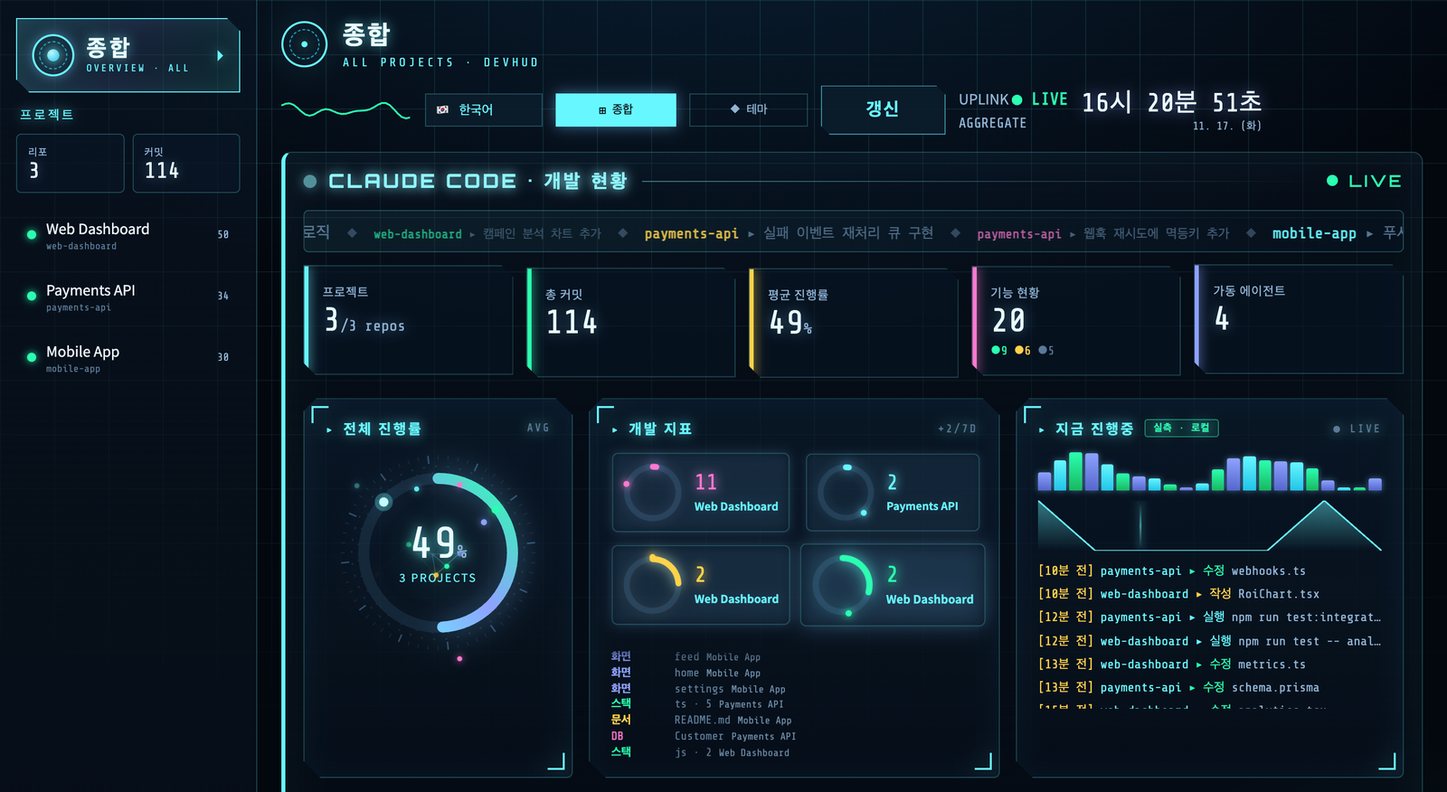
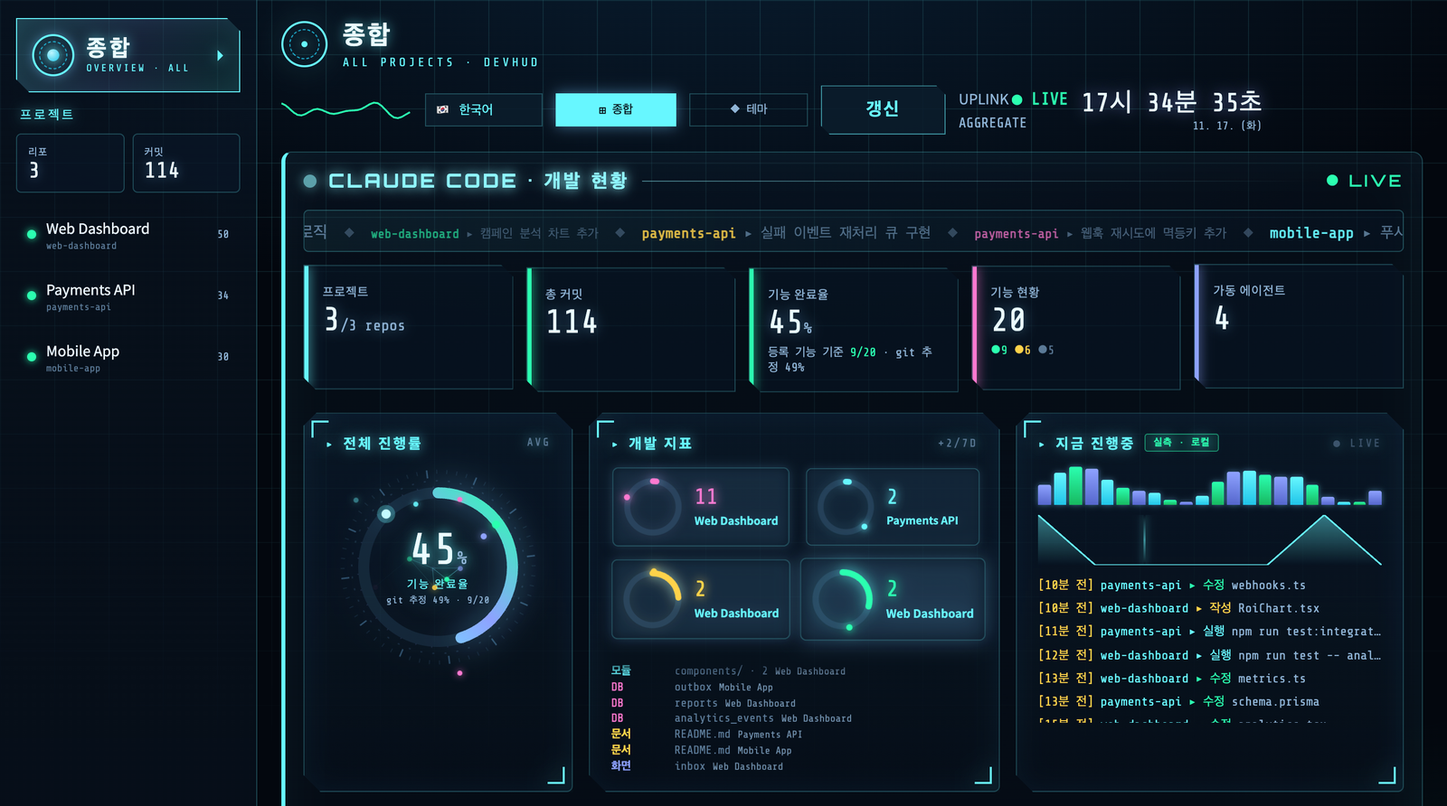
fix: 과장 라벨 정정 — '실제 완료율' → '기능(등록) 완료율' + 정밀 표기
정확성 피드백 반영 (하나도 과장 않도록):
- '실제 완료율/REAL COMPLETION' → '기능 완료율/FEATURE COMPLETION' (등록 기능 done/total이며 코드·테스트 자동검증이 아님을 명시, '등록 기능 기준' 부기)
- 작업 상태: '작업중' → '활성 ~3분' (최근 로그 시간 기준 추정 · 실행/입력대기 구별 못 함)
- 파일 편집 스트림: '세션 로그' 기준 편집량임을 라벨에 표기(git diff와 다를 수 있음), 보고서 변경파일은 'git' 명시
- FEATURES.md 동일하게 정정, 데모 GIF·대표 이미지 정정 라벨로 재생성

diff --git a/web/index.html b/web/index.html
@@ -526,7 +526,7 @@ body::before{content:"";position:fixed;inset:0;z-index:0;pointer-events:none;bac
 const THEMES={cyan:['#67f7ff','#20c4e8','#8ea2ff'],amber:['#ffcf5a','#e0952a','#ffd98a'],matrix:['#53ff9b','#17b85f','#9affc6'],magenta:['#ff79d0','#d13a92','#ffabe0']};
 const TORDER=['cyan','amber','matrix','magenta'];let curTheme='cyan';
 const PAL=['#53ff9b','#67f7ff','#ffd24a','#ff79d0','#8ea2ff','#ff6d86','#20c4e8','#ffcf5a'];
-const T={en:{projects:'Projects',repos:'Repos',commits:'Commits',theme:'Theme',refresh:'Refresh',t_milestones:'Milestones',t_phases:'Phases',t_features:'Feature Status',t_commits:'Recent Commits',t_log:'Event Log',t_radar:'Commit Radar',t_activity:'Commit Activity · 14d',t_work:'Work Distribution',t_branches:'Branches',t_recs:'Recommended',t_inprog:'In Progress',t_agents:'AI Agents',t_code:'Code Composition',t_modules:'Module Structure',t_contrib:'Contributors',t_stack:'Tech Stack',t_screens:'UI · Screens',t_docs:'Planning · Docs',overview:'Overview',ov_managed:'Managed Projects',ov_other:'Other Repos',ov_projects:'Projects',ov_commits:'Total Commits',ov_progress:'Avg Progress',ov_feat:'Features',ov_agents:'Active Agents',ms_short:'milestones',wip_short:'in progress',last_short:'last',done_k:'Done',wip_k:'Active',todo_k:'Todo',ov_board:'My Projects',ov_managed2:'Git projects (auto)',newproj:'New project',m_name:'Name',m_desc:'One-line description',m_status:'Status',m_progress:'Progress %',m_updated:'Last activity',m_cancel:'Cancel',m_save:'Save',bp_empty:'No projects yet',st_idea:'Idea',st_active:'Active',st_done:'Done',st_hold:'Hold',ov_cc:'CLAUDE CODE · DEV STATUS',bp_recent:'7d',bp_act:'avg activity',bp_prog:'progress',bp_actlbl:'activity',cp_prog:'Overall progress',cp_metrics:'Dev metrics',cp_now:'In progress now',m_db:'DB tables',m_c7:'7-day commits',m_wip:'In progress',m_ag:'AI agents',bp_now:'Now',bp_detail:'add detail',m_task:'Current task',m_eta:'Expected completion',m_convos:'Conversations',m_docs:'Attached docs',cu_title:'Claude Code · Real token usage',cu_real:'REAL · LOCAL',cu_out:'Output tokens',cu_in:'Input',cu_cache:'Cache',cu_sess:'Sessions',cu_sessw:'sessions',bp_manual:'self-tracked',au_title:'Anthropic API · Tokens · Cost',au_real:'REAL · API',au_off:'NOT SET',au_setup:'Connect your Anthropic usage',au_s1:'Create an Admin API key in the Anthropic Console',au_s2:'Add it to',au_s3:'Refresh — real tokens & cost appear',au_safe:'Key stays local (git-ignored), never committed or shown.',au_cost:'Cost (7d)',au_7d:'Last 7 days',bp_all:'All',so_status:'By status',so_act:'By activity',so_date:'By date',so_name:'By name',bp_noactive:'Nothing active',ago_now:'now',ago_m:'m ago',ago_h:'h ago',ago_d:'d ago',wk_title:'Working now · Claude Code sessions',wk_empty:'No local Claude Code sessions found',wk_hidden:'topics hidden',wk_acts:'actions',wk_prompts:'prompts',wk_files:'files',wk_changes:'File changes · live stream',v_edit:'edit',v_write:'write',v_read:'read',v_run:'run',v_browser:'browser',v_tool:'tool',dk_db:'DB',dk_dir:'MODULE',dk_screen:'SCREEN',dk_doc:'DOC',dk_lang:'STACK',dk_file:'FILE',cp_realc:'REAL COMPLETION',cp_gitest:'git est.',ov_realc:'Real completion',rp_title:'Dev report · next actions',rp_today:'commits today',rp_week:'7d commits',rp_todo:'open TODOs',rp_next:'Next actions',rp_changed:'Changed files (7d)',rp_done:'Done',rp_wip:'In progress',rp_todo2:'Planned',ss_active:'working',ss_recent:'recent',ss_idle:'idle',rp_none:'No next actions detected'},ko:{projects:'프로젝트',repos:'리포',commits:'커밋',theme:'테마',refresh:'갱신',t_milestones:'마일스톤',t_phases:'단계(Phase)',t_features:'기능별 상태',t_commits:'최근 커밋',t_log:'이벤트 로그',t_radar:'커밋 레이더',t_activity:'커밋 활동 · 14일',t_work:'작업 분포',t_branches:'브랜치',t_recs:'추천 액션',t_inprog:'진행 중',t_agents:'AI 에이전트',t_code:'코드 구성',t_modules:'모듈 구성',t_contrib:'기여자',t_stack:'기술 스택',t_screens:'UI · 화면',t_docs:'기획 · 문서',overview:'종합',ov_managed:'관리 중인 프로젝트',ov_other:'기타 리포',ov_projects:'프로젝트',ov_commits:'총 커밋',ov_progress:'평균 진행률',ov_feat:'기능 현황',ov_agents:'가동 에이전트',ms_short:'마일스톤',wip_short:'진행중',last_short:'최근',done_k:'완료',wip_k:'진행',todo_k:'대기',ov_board:'내 프로젝트',ov_managed2:'GIT 프로젝트 (자동 감지)',newproj:'새 프로젝트',m_name:'이름',m_desc:'한 줄 설명',m_status:'상태',m_progress:'진척도 %',m_updated:'최근 활동',m_cancel:'취소',m_save:'저장',bp_empty:'프로젝트가 없습니다',st_idea:'기획',st_active:'진행',st_done:'완료',st_hold:'보류',ov_cc:'CLAUDE CODE · 개발 현황',bp_recent:'최근7일',bp_act:'평균 활동',bp_prog:'진척',bp_actlbl:'활동',cp_prog:'전체 진행률',cp_metrics:'개발 지표',cp_now:'지금 진행중',m_db:'DB 테이블',m_c7:'7일 커밋',m_wip:'진행중 기능',m_ag:'AI 에이전트',bp_now:'현재',bp_detail:'상세 추가',m_task:'현재 작업',m_eta:'예상 완료',m_convos:'대화 수',m_docs:'첨부 문서',cu_title:'Claude Code · 실측 토큰 사용량',cu_real:'실측 · 로컬',cu_out:'출력 토큰',cu_in:'입력',cu_cache:'캐시',cu_sess:'세션',cu_sessw:'세션',bp_manual:'직접 기록',au_title:'Anthropic API · 토큰 · 비용',au_real:'실측 · API',au_off:'미설정',au_setup:'Anthropic 사용량 연결',au_s1:'Anthropic 콘솔에서 Admin API 키 생성',au_s2:'키를 넣기:',au_s3:'갱신하면 실제 토큰·비용 표시',au_safe:'키는 로컬(gitignore)에만 저장 · 커밋/노출 안 함',au_cost:'비용(7일)',au_7d:'최근 7일',bp_all:'전체',so_status:'상태순',so_act:'활동순',so_date:'날짜순',so_name:'이름순',bp_noactive:'진행 중인 항목 없음',ago_now:'방금',ago_m:'분 전',ago_h:'시간 전',ago_d:'일 전',wk_title:'지금 작업중 · Claude Code 세션',wk_empty:'로컬 Claude Code 세션이 없습니다',wk_hidden:'주제 숨김',wk_acts:'액션',wk_prompts:'프롬프트',wk_files:'파일',wk_changes:'파일 변경 · 실시간 스트림',v_edit:'수정',v_write:'작성',v_read:'읽기',v_run:'실행',v_browser:'브라우저',v_tool:'도구',dk_db:'DB',dk_dir:'모듈',dk_screen:'화면',dk_doc:'문서',dk_lang:'스택',dk_file:'파일',cp_realc:'실제 완료율',cp_gitest:'git 추정',ov_realc:'실제 완료율',rp_title:'개발 보고서 · 다음 할 일',rp_today:'오늘 커밋',rp_week:'7일 커밋',rp_todo:'열린 TODO',rp_next:'다음 할 일',rp_changed:'변경 파일(7일)',rp_done:'완료',rp_wip:'진행중',rp_todo2:'계획',ss_active:'작업중',ss_recent:'최근',ss_idle:'유휴',rp_none:'감지된 다음 할 일 없음'},
+const T={en:{projects:'Projects',repos:'Repos',commits:'Commits',theme:'Theme',refresh:'Refresh',t_milestones:'Milestones',t_phases:'Phases',t_features:'Feature Status',t_commits:'Recent Commits',t_log:'Event Log',t_radar:'Commit Radar',t_activity:'Commit Activity · 14d',t_work:'Work Distribution',t_branches:'Branches',t_recs:'Recommended',t_inprog:'In Progress',t_agents:'AI Agents',t_code:'Code Composition',t_modules:'Module Structure',t_contrib:'Contributors',t_stack:'Tech Stack',t_screens:'UI · Screens',t_docs:'Planning · Docs',overview:'Overview',ov_managed:'Managed Projects',ov_other:'Other Repos',ov_projects:'Projects',ov_commits:'Total Commits',ov_progress:'Avg Progress',ov_feat:'Features',ov_agents:'Active Agents',ms_short:'milestones',wip_short:'in progress',last_short:'last',done_k:'Done',wip_k:'Active',todo_k:'Todo',ov_board:'My Projects',ov_managed2:'Git projects (auto)',newproj:'New project',m_name:'Name',m_desc:'One-line description',m_status:'Status',m_progress:'Progress %',m_updated:'Last activity',m_cancel:'Cancel',m_save:'Save',bp_empty:'No projects yet',st_idea:'Idea',st_active:'Active',st_done:'Done',st_hold:'Hold',ov_cc:'CLAUDE CODE · DEV STATUS',bp_recent:'7d',bp_act:'avg activity',bp_prog:'progress',bp_actlbl:'activity',cp_prog:'Overall progress',cp_metrics:'Dev metrics',cp_now:'In progress now',m_db:'DB tables',m_c7:'7-day commits',m_wip:'In progress',m_ag:'AI agents',bp_now:'Now',bp_detail:'add detail',m_task:'Current task',m_eta:'Expected completion',m_convos:'Conversations',m_docs:'Attached docs',cu_title:'Claude Code · Real token usage',cu_real:'REAL · LOCAL',cu_out:'Output tokens',cu_in:'Input',cu_cache:'Cache',cu_sess:'Sessions',cu_sessw:'sessions',bp_manual:'self-tracked',au_title:'Anthropic API · Tokens · Cost',au_real:'REAL · API',au_off:'NOT SET',au_setup:'Connect your Anthropic usage',au_s1:'Create an Admin API key in the Anthropic Console',au_s2:'Add it to',au_s3:'Refresh — real tokens & cost appear',au_safe:'Key stays local (git-ignored), never committed or shown.',au_cost:'Cost (7d)',au_7d:'Last 7 days',bp_all:'All',so_status:'By status',so_act:'By activity',so_date:'By date',so_name:'By name',bp_noactive:'Nothing active',ago_now:'now',ago_m:'m ago',ago_h:'h ago',ago_d:'d ago',wk_title:'Working now · Claude Code sessions',wk_empty:'No local Claude Code sessions found',wk_hidden:'topics hidden',wk_acts:'actions',wk_prompts:'prompts',wk_files:'files',wk_changes:'File edits · live (session log)',v_edit:'edit',v_write:'write',v_read:'read',v_run:'run',v_browser:'browser',v_tool:'tool',dk_db:'DB',dk_dir:'MODULE',dk_screen:'SCREEN',dk_doc:'DOC',dk_lang:'STACK',dk_file:'FILE',cp_realc:'FEATURE COMPLETION',cp_gitest:'git est.',ov_realc:'Feature completion',ov_realc_sub:'registered features',rp_title:'Dev report · next actions',rp_today:'commits today',rp_week:'7d commits',rp_todo:'open TODOs',rp_next:'Next actions',rp_changed:'Changed files (git · 7d)',rp_done:'Done',rp_wip:'In progress',rp_todo2:'Planned',ss_active:'active ~3m',ss_recent:'recent',ss_idle:'idle',rp_none:'No next actions detected'},ko:{projects:'프로젝트',repos:'리포',commits:'커밋',theme:'테마',refresh:'갱신',t_milestones:'마일스톤',t_phases:'단계(Phase)',t_features:'기능별 상태',t_commits:'최근 커밋',t_log:'이벤트 로그',t_radar:'커밋 레이더',t_activity:'커밋 활동 · 14일',t_work:'작업 분포',t_branches:'브랜치',t_recs:'추천 액션',t_inprog:'진행 중',t_agents:'AI 에이전트',t_code:'코드 구성',t_modules:'모듈 구성',t_contrib:'기여자',t_stack:'기술 스택',t_screens:'UI · 화면',t_docs:'기획 · 문서',overview:'종합',ov_managed:'관리 중인 프로젝트',ov_other:'기타 리포',ov_projects:'프로젝트',ov_commits:'총 커밋',ov_progress:'평균 진행률',ov_feat:'기능 현황',ov_agents:'가동 에이전트',ms_short:'마일스톤',wip_short:'진행중',last_short:'최근',done_k:'완료',wip_k:'진행',todo_k:'대기',ov_board:'내 프로젝트',ov_managed2:'GIT 프로젝트 (자동 감지)',newproj:'새 프로젝트',m_name:'이름',m_desc:'한 줄 설명',m_status:'상태',m_progress:'진척도 %',m_updated:'최근 활동',m_cancel:'취소',m_save:'저장',bp_empty:'프로젝트가 없습니다',st_idea:'기획',st_active:'진행',st_done:'완료',st_hold:'보류',ov_cc:'CLAUDE CODE · 개발 현황',bp_recent:'최근7일',bp_act:'평균 활동',bp_prog:'진척',bp_actlbl:'활동',cp_prog:'전체 진행률',cp_metrics:'개발 지표',cp_now:'지금 진행중',m_db:'DB 테이블',m_c7:'7일 커밋',m_wip:'진행중 기능',m_ag:'AI 에이전트',bp_now:'현재',bp_detail:'상세 추가',m_task:'현재 작업',m_eta:'예상 완료',m_convos:'대화 수',m_docs:'첨부 문서',cu_title:'Claude Code · 실측 토큰 사용량',cu_real:'실측 · 로컬',cu_out:'출력 토큰',cu_in:'입력',cu_cache:'캐시',cu_sess:'세션',cu_sessw:'세션',bp_manual:'직접 기록',au_title:'Anthropic API · 토큰 · 비용',au_real:'실측 · API',au_off:'미설정',au_setup:'Anthropic 사용량 연결',au_s1:'Anthropic 콘솔에서 Admin API 키 생성',au_s2:'키를 넣기:',au_s3:'갱신하면 실제 토큰·비용 표시',au_safe:'키는 로컬(gitignore)에만 저장 · 커밋/노출 안 함',au_cost:'비용(7일)',au_7d:'최근 7일',bp_all:'전체',so_status:'상태순',so_act:'활동순',so_date:'날짜순',so_name:'이름순',bp_noactive:'진행 중인 항목 없음',ago_now:'방금',ago_m:'분 전',ago_h:'시간 전',ago_d:'일 전',wk_title:'지금 작업중 · Claude Code 세션',wk_empty:'로컬 Claude Code 세션이 없습니다',wk_hidden:'주제 숨김',wk_acts:'액션',wk_prompts:'프롬프트',wk_files:'파일',wk_changes:'파일 편집 · 실시간 (세션 로그)',v_edit:'수정',v_write:'작성',v_read:'읽기',v_run:'실행',v_browser:'브라우저',v_tool:'도구',dk_db:'DB',dk_dir:'모듈',dk_screen:'화면',dk_doc:'문서',dk_lang:'스택',dk_file:'파일',cp_realc:'기능 완료율',cp_gitest:'git 추정',ov_realc:'기능 완료율',ov_realc_sub:'등록 기능 기준',rp_title:'개발 보고서 · 다음 할 일',rp_today:'오늘 커밋',rp_week:'7일 커밋',rp_todo:'열린 TODO',rp_next:'다음 할 일',rp_changed:'변경 파일(git · 7일)',rp_done:'완료',rp_wip:'진행중',rp_todo2:'계획',ss_active:'활성 ~3분',ss_recent:'최근',ss_idle:'유휴',rp_none:'감지된 다음 할 일 없음'},
 vi:{projects:'Dự án',repos:'Kho',commits:'Commit',theme:'Giao diện',refresh:'Làm mới',t_milestones:'Cột mốc',t_phases:'Giai đoạn',t_features:'Trạng thái tính năng',t_commits:'Commit gần đây',t_log:'Nhật ký sự kiện',t_radar:'Radar commit',t_activity:'Hoạt động commit · 14 ngày',t_work:'Phân bố công việc',t_branches:'Nhánh',t_recs:'Đề xuất',t_inprog:'Đang làm',t_agents:'AI Agents',t_code:'Thành phần mã',t_modules:'Cấu trúc module',t_contrib:'Đóng góp',t_stack:'Công nghệ',t_screens:'Màn hình',t_docs:'Tài liệu',overview:'Tổng hợp',ov_managed:'Dự án đang quản lý',ov_other:'Kho khác',ov_projects:'Dự án',ov_commits:'Tổng commit',ov_progress:'Tiến độ TB',ov_feat:'Tính năng',ov_agents:'Agent đang chạy',ms_short:'Cột mốc',wip_short:'Đang làm',last_short:'Gần đây',done_k:'Xong',wip_k:'Đang',todo_k:'Chờ',ov_board:'Dự án của tôi',ov_managed2:'Dự án Git (tự động)',newproj:'Dự án mới',m_name:'Tên',m_desc:'Mô tả ngắn',m_status:'Trạng thái',m_progress:'Tiến độ %',m_updated:'Hoạt động gần đây',m_cancel:'Hủy',m_save:'Lưu',bp_empty:'Chưa có dự án',st_idea:'Ý tưởng',st_active:'Đang làm',st_done:'Xong',st_hold:'Tạm dừng',ov_cc:'CLAUDE CODE · Phát triển',bp_recent:'7 ngày',bp_act:'HĐ TB',bp_prog:'Tiến độ',bp_actlbl:'Hoạt động',cp_prog:'Tiến độ chung',cp_metrics:'Chỉ số dev',cp_now:'Đang chạy',m_db:'Bảng DB',m_c7:'Commit 7d',m_wip:'Đang làm',m_ag:'AI Agent'},
 ja:{projects:'プロジェクト',repos:'リポ',commits:'コミット',theme:'テーマ',refresh:'更新',t_milestones:'マイルストン',t_phases:'フェーズ',t_features:'機能状態',t_commits:'最近のコミット',t_log:'イベントログ',t_radar:'コミットレーダー',t_activity:'コミット活動 · 14日',t_work:'作業分布',t_branches:'ブランチ',t_recs:'推奨',t_inprog:'進行中',t_agents:'AIエージェント',t_code:'コード構成',t_modules:'モジュール構成',t_contrib:'貢献者',t_stack:'技術スタック',t_screens:'UI · 画面',t_docs:'企画 · 文書',overview:'総合',ov_managed:'管理中のプロジェクト',ov_other:'その他リポ',ov_projects:'プロジェクト',ov_commits:'総コミット',ov_progress:'平均進捗',ov_feat:'機能',ov_agents:'稼働エージェント',ms_short:'マイルストン',wip_short:'進行中',last_short:'最近',done_k:'完了',wip_k:'進行',todo_k:'待機',ov_board:'マイプロジェクト',ov_managed2:'Gitプロジェクト(自動)',newproj:'新規',m_name:'名前',m_desc:'一行説明',m_status:'状態',m_progress:'進捗 %',m_updated:'最近の活動',m_cancel:'キャンセル',m_save:'保存',bp_empty:'プロジェクトなし',st_idea:'企画',st_active:'進行',st_done:'完了',st_hold:'保留',ov_cc:'CLAUDE CODE · 開発状況',bp_recent:'7日',bp_act:'平均活動',bp_prog:'進捗',bp_actlbl:'活動',cp_prog:'全体進捗',cp_metrics:'開発指標',cp_now:'進行中',m_db:'DBテーブル',m_c7:'7日コミット',m_wip:'進行中機能',m_ag:'AIエージェント'},
 es:{projects:'Proyectos',repos:'Repos',commits:'Commits',theme:'Tema',refresh:'Actualizar',t_milestones:'Hitos',t_phases:'Fases',t_features:'Estado de funciones',t_commits:'Commits recientes',t_log:'Registro',t_radar:'Radar de commits',t_activity:'Actividad · 14d',t_work:'Distribución',t_branches:'Ramas',t_recs:'Recomendado',t_inprog:'En progreso',t_agents:'Agentes IA',t_code:'Composición',t_modules:'Módulos',t_contrib:'Colaboradores',t_stack:'Stack',t_screens:'UI · Pantallas',t_docs:'Planificación · Docs',overview:'Resumen',ov_managed:'Proyectos gestionados',ov_other:'Otros repos',ov_projects:'Proyectos',ov_commits:'Commits totales',ov_progress:'Progreso medio',ov_feat:'Funciones',ov_agents:'Agentes activos',ms_short:'hitos',wip_short:'en curso',last_short:'último',done_k:'Hecho',wip_k:'Activo',todo_k:'Pendiente',ov_board:'Mis proyectos',ov_managed2:'Proyectos Git (auto)',newproj:'Nuevo',m_name:'Nombre',m_desc:'Descripción breve',m_status:'Estado',m_progress:'Progreso %',m_updated:'Última actividad',m_cancel:'Cancelar',m_save:'Guardar',bp_empty:'Sin proyectos',st_idea:'Idea',st_active:'Activo',st_done:'Hecho',st_hold:'Pausa',ov_cc:'CLAUDE CODE · ESTADO',bp_recent:'7d',bp_act:'actividad media',bp_prog:'progreso',bp_actlbl:'actividad',cp_prog:'Progreso general',cp_metrics:'Métricas dev',cp_now:'En progreso',m_db:'Tablas DB',m_c7:'Commits 7d',m_wip:'En progreso',m_ag:'Agentes IA'},
@@ -630,7 +630,7 @@ function renderOverview(O){
   el('ovtot').innerHTML=`
     <div class="tc"><span class="edge"></span><div class="k">${tr('ov_projects')}</div><div class="v mono">${t.projects}<small>/${t.repos} repos</small></div></div>
     <div class="tc"><span class="edge"></span><div class="k">${tr('ov_commits')}</div><div class="v mono">${(t.commits||0).toLocaleString()}</div></div>
-    <div class="tc"><span class="edge" style="background:#2bffb0;box-shadow:0 0 10px #2bffb0"></span><div class="k">${tr('ov_realc')}</div><div class="v mono" style="color:#eafcff">${t.featProgress==null?'—':t.featProgress}<small>%</small></div><div class="sub"><span class="d">${t.featDone||0}/${t.featTotal||0}</span> · ${tr('cp_gitest')} ${t.avgProgress}%</div></div>
+    <div class="tc"><span class="edge" style="background:#2bffb0;box-shadow:0 0 10px #2bffb0"></span><div class="k">${tr('ov_realc')}</div><div class="v mono" style="color:#eafcff">${t.featProgress==null?'—':t.featProgress}<small>%</small></div><div class="sub">${tr('ov_realc_sub')} <span class="d">${t.featDone||0}/${t.featTotal||0}</span> · ${tr('cp_gitest')} ${t.avgProgress}%</div></div>
     <div class="tc"><span class="edge"></span><div class="k">${tr('ov_feat')}</div><div class="v mono">${t.feat.done+t.feat.wip+t.feat.todo}</div><div class="sub"><span class="d">●${t.feat.done}</span> <span class="w">●${t.feat.wip}</span> <span class="t">●${t.feat.todo}</span></div></div>
     <div class="tc"><span class="edge"></span><div class="k">${tr('ov_agents')}</div><div class="v mono">${t.agentsRun}</div></div>`;
   el('ovgrid').innerHTML=(O.projects||[]).map((p,pi)=>{

diff --git a/docs/FEATURES.md b/docs/FEATURES.md
@@ -1,0 +1,110 @@
+# Mission Control — 기능 정리 & 검증 가이드
+
+> 목적: 지금까지 구현된 기능 전체와 **각 숫자가 어떤 실데이터에서 나오는지**, 그리고 **직접 검증하는 법**을 정리.
+> 원칙: 모든 수치는 로컬 실데이터(git · Claude Code 로그). 못 가져오는 것은 **지어내지 않음**.
+
+---
+
+## A. 자동 감지 (zero-config · git 읽기 전용)
+
+| 기능 | 데이터 출처 | 검증 방법 |
+|---|---|---|
+| 마일스톤 | 저장소 성숙도(문서/테스트/CI/컨테이너/릴리스) 또는 config | config의 `milestones[]`와 대조 |
+| 단계(Phase) | 설정·품질 완성도 추정 | config의 `phases[]` |
+| 기능 상태(완료/진행/대기) | config `features[]` | 직접 센 값과 일치 |
+| 기술 스택 | package.json·파일 확장자 | `git ls-files`로 확인 |
+| 코드 구성/모듈 구조 | 파일 확장자·최상위 폴더 집계 | `git ls-files` 집계와 대조 |
+| DB 테이블 | `.sql`의 CREATE TABLE·`.prisma`의 model | 스키마 파일에서 직접 count |
+| 화면/문서 | pages·app·screens 폴더, `.md` | 파일 목록과 대조 |
+| 브랜치·기여자 | `git for-each-ref`·`git log %an` | 동일 git 명령 |
+| 커밋 활동(14일)·작업 분포 | `git log` 날짜·커밋 태그 | `git log --since=14.days` |
+| TODO/FIXME | `git grep -E 'TODO|FIXME|HACK'` | 동일 명령 |
+
+**엔드포인트:** `/api/status?p=<id>` · `/api/overview`
+
+---
+
+## B. 실시간 작업 (Claude Code 로컬 세션 로그)
+
+| 기능 | 데이터 출처 | 검증 방법 |
+|---|---|---|
+| 지금 작업중(세션별 주제) | `~/.claude/projects/*/*.jsonl`의 user 메시지 | 로그의 실제 프롬프트 |
+| 최근 액션(수정/작성/실행…) | 로그의 assistant tool_use | 로그의 tool_use 블록 |
+| 파일 편집 + ±라인 | Edit/Write의 old/new_string 줄수 | **세션 로그 기준 편집량** — git diff 최종값과 **다를 수 있음**(별개) |
+| 편집 실시간 스트림 | 위 편집을 최신순 집계 | 동일(로그 기준) |
+| 작업 상태(활성~3분/최근/유휴) | 로그 마지막 타임스탬프 **추론** | 최근 로그 시간 기준 **추정** — Claude가 실제 실행 중인지/입력 대기인지 **구별 못 함** |
+| 토큰 사용량(입/출/캐시) | 로그 `message.usage` 합산 | jsonl의 usage 합계 |
+
+**엔드포인트:** `/api/activity` · `/api/claude-usage`
+**주의:** claude.ai **채팅** 프로젝트는 API가 없어 **여기에 안 나옴**(수동 보드로만).
+
+---
+
+## C. AI 프로젝트 관리 레이어 (최근 추가 · 제품평가 반영)
+
+| 기능 | 데이터 출처 | 검증 방법 / 주의 |
+|---|---|---|
+| **기능(등록) 완료율** | 등록된 기능 done/total | config features의 done ÷ 전체. **코드·테스트를 자동 검증한 값이 아님** — 라벨도 "기능 완료율"로 표기 |
+| ↳ git 추정과 **분리 표기** | 도넛·타일·카드에 "기능 완료율 N% · git 추정 M%" | 둘이 다름을 눈으로 확인 |
+| **개발 보고서** | 오늘/7일 커밋·변경 파일(git)·열린 TODO | `git log --since` 와 대조 |
+| **다음 할 일** | 진행중/미착수 기능·코드 TODO·미완료 마일스톤 | **실제 신호만**(지어내지 않음) |
+| **작업 상태 추론** | 세션 로그 최근 활동 | 추정 — 실행/입력대기 **구별 못 함**(B와 동일) |
+
+**엔드포인트:** `/api/report`
+
+---
+
+## D. 종합(Overview) 대시보드
+
+- 전체 집계(프로젝트·커밋·기능 완료율·기능·에이전트) + 프로젝트별 카드
+- 개발 지표 링: 프로젝트별 세부 ↔ 종합으로 **순환**
+- 콘솔 로그: 실제 DB 테이블·모듈·화면·문서가 올라감
+- 기타 리포(자동) · 내 프로젝트(수동, opt-in) 섹션 구분
+
+---
+
+## E. 선택 기능 (opt-in · 기본 꺼짐)
+
+| 기능 | 켜는 법 | 비고 |
+|---|---|---|
+| Anthropic API 토큰·비용 | config `anthropicAdminKey` | Admin 키 필요(로컬·gitignore) |
+| 내 프로젝트 수동 보드 | `my-projects.json` 생성 | claude.ai 등 비-git 작업용, "직접 기록" 표기 |
+| 활동 주제 숨김 | config `activityTopics:false` | 액션·파일변경만 노출 |
+
+---
+
+## F. UX · 연출
+
+- **6개 언어**(EN/KO/VI/JA/ES/ZH) · **4 테마**(cyan/amber/matrix/magenta)
+- 모션: 우주 도넛(입자·연결선·혜성·숨쉬는 글로우), 지표 링 순환, 이퀄라이저, 마퀴(속도·크기 차별), 콘솔 로그 스크롤
+- **화려한 연출은 의도적 — 숫자는 전부 진짜**
+
+---
+
+## G. 정직성 원칙 (핵심 차별점)
+
+1. 모든 수치 = 로컬 실데이터. 못 가져오는 것(claude.ai 채팅, 타 AI 도구)은 **표시하지 않음**.
+2. **기능(등록) 완료율 ↔ git 추정**을 나란히 → 과대평가 오해 방지. (완료율은 등록 기능 기준이며 코드·테스트 자동 검증이 아님)
+3. 다음 할 일 = 실제 신호(기능·TODO·마일스톤)에서만. AI 추측 금지.
+4. 각 패널에 출처 뱃지: `REAL · LOCAL` / `REAL · GIT` / `REAL · API`.
+5. 보안: `127.0.0.1`만 바인드, git 구조·토큰 수만 읽고 **`.env`·키·시크릿 절대 안 읽음**, 외부 전송 없음.
+
+### ⑤ 타 AI(Codex 등) 연동 — 현재 보류 (정직)
+- 이유: 이 컴퓨터의 `~/.codex`는 **앱 내부 디버그 로그**(level/file/line)뿐, 프로젝트별 작업 내용이 없음.
+- Cursor/Aider 등 읽을 로그도 없음 → **가짜로 지어내지 않고 보류.**
+- 로그 리더는 "여러 도구 지원" 구조로 두어, 읽을 로그가 생기면 붙임.
+
+---
+
+## 검증 빠른 체크 (직접 해보기)
+
+```bash
+# 서버 실행 중일 때 (127.0.0.1:8799)
+curl -s 127.0.0.1:8799/api/overview | python3 -m json.tool   # 실제완료율 vs git추정
+curl -s 127.0.0.1:8799/api/report   | python3 -m json.tool   # 다음 할 일·보고서
+curl -s 127.0.0.1:8799/api/activity | python3 -m json.tool   # 세션·파일변경·상태
+```
+- 기능(등록) 완료율 = config의 features done 개수 ÷ 전체. (코드·테스트 검증 아님)
+- 다음 할 일 항목 = config의 wip/todo 기능 + 코드 TODO와 일치.
+- 보고서 '변경 파일' = `git -C <repo> log --since=7.days --name-only` 와 대조.
+- 세션 '편집 ±라인' = Edit/Write 로그 기준 **편집량**이라 git diff 최종값과 다를 수 있음(별개 지표).
